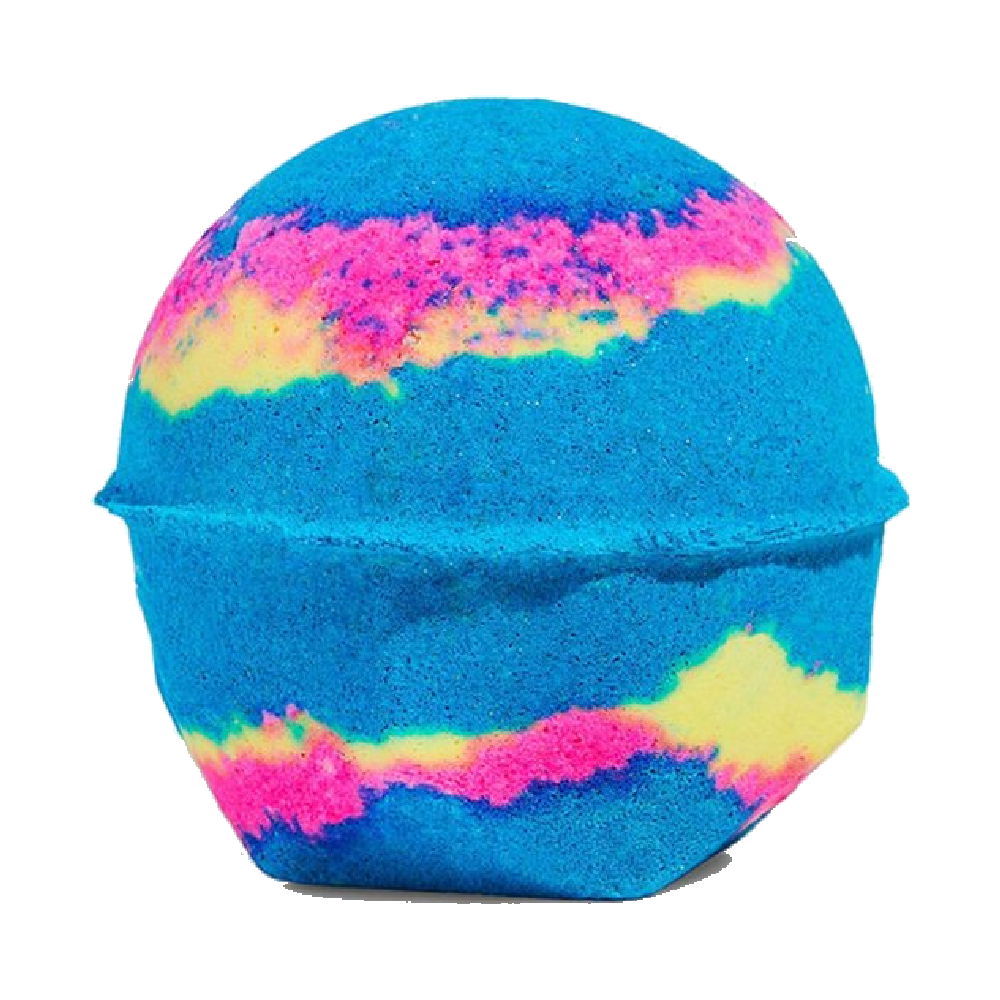
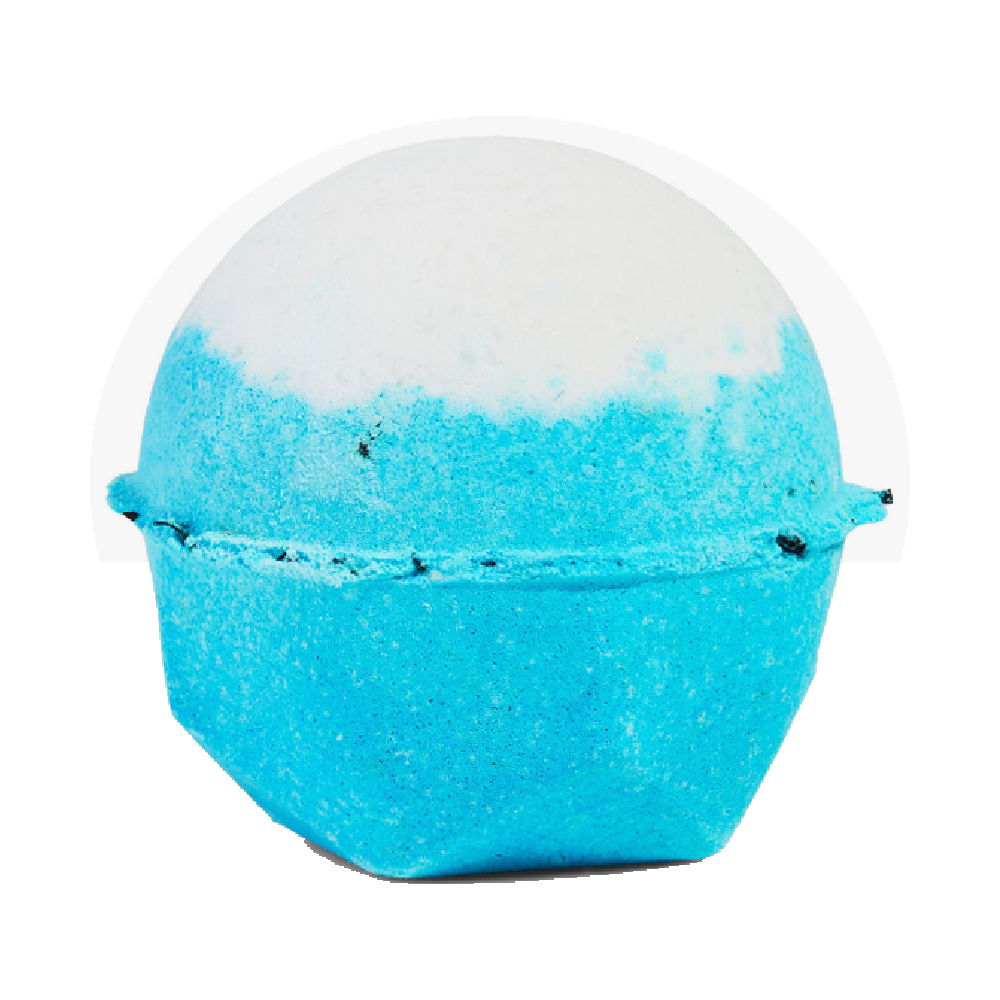
fix: update rating bomb images and color states

diff --git a/src/styles.css b/src/styles.css
@@ -123,17 +123,10 @@ button:disabled { cursor: wait; }
 .rating-option:focus-visible, .toggle-option:focus-within, .choice-chip:focus-within, .consent-row:focus-within { outline: 2px solid var(--lime); outline-offset: 3px; }
 .rating-option.is-selected { background: #ededeb; border-color: rgba(23, 23, 23, .25); }
 .rating-image-wrap { display: block; height: 98px; overflow: hidden; width: 100%; }
-.rating-image-wrap img { filter: saturate(1); height: 100%; object-fit: contain; opacity: .78; transform: scale(.96); transition: filter .4s ease, opacity .4s ease, transform .4s cubic-bezier(.16,1,.3,1); width: 100%; }
-.rating-option:hover img, .rating-option.is-lit img, .rating-option.is-selected img { filter: grayscale(0) saturate(1); opacity: 1; transform: scale(1.04); }
+.rating-image-wrap img { filter: grayscale(1) saturate(.2); height: 100%; object-fit: contain; opacity: .48; transform: scale(.96); transition: filter .4s ease, opacity .4s ease, transform .4s cubic-bezier(.16,1,.3,1); width: 100%; }
+.rating-option:hover img { opacity: .68; transform: scale(1.01); }
+.rating-option.is-lit img, .rating-option.is-selected img { filter: grayscale(0) saturate(1); opacity: 1; transform: scale(1.04); }
 .rating-option.is-selected img { transform: scale(1.04) rotate(-4deg); }
-.rating-option--muted-blue .rating-image-wrap img,
-.rating-option--muted-blue:hover img,
-.rating-option--muted-blue.is-lit img,
-.rating-option--muted-blue.is-selected img { filter: grayscale(1) sepia(.7) hue-rotate(172deg) saturate(1.8) brightness(.72); }
-.rating-option--muted-purple .rating-image-wrap img,
-.rating-option--muted-purple:hover img,
-.rating-option--muted-purple.is-lit img,
-.rating-option--muted-purple.is-selected img { filter: grayscale(1) sepia(.78) hue-rotate(230deg) saturate(1.8) brightness(.7); }
 .rating-number { color: var(--green); font-size: 16px; font-weight: 700; letter-spacing: .06em; margin-top: 7px; }
 .rating-label { font-size: 15px; line-height: 1.35; margin-top: 6px; text-align: center; }
 

diff --git a/src/App.jsx b/src/App.jsx
@@ -18,7 +18,6 @@ const ratingOptions = [
     label: 'Chưa trọn vẹn',
     image: '/bathbombs/lush-rating-deep-blue-cutout.png',
     alt: 'Bath bomb LUSH màu xanh dương đậm, nền trong suốt',
-    tone: 'muted-blue',
   },
   {
     value: 2,
@@ -41,8 +40,8 @@ const ratingOptions = [
   {
     value: 5,
     label: 'Tuyệt vời',
-    image: '/bathbombs/bathbomb-fifth-cutout.png',
-    alt: 'Bath bomb LUSH nhiều màu rực rỡ, nền trong suốt',
+    image: '/bathbombs/lush-rating-orange-pink-cutout.png',
+    alt: 'Bath bomb LUSH màu cam với các dải màu hồng và vàng, nền trong suốt',
   },
 ]
 
